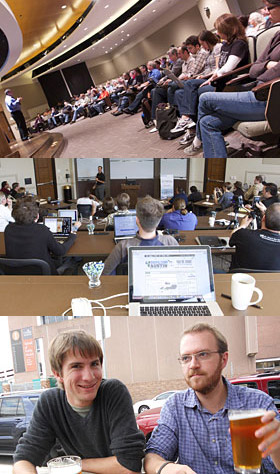
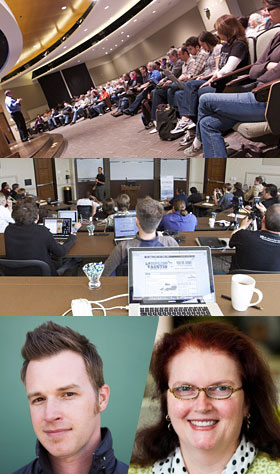
:blush: Oops, we'll need these changes to put the keynoters on the frontpage.

diff --git a/css/style.css b/css/style.css
@@ -475,7 +475,6 @@ table {
 h1, h2, h3, h4, h5, h6 {
   -webkit-transition: opacity 0.25s ease-in-out;
   -moz-transition: opacity 0.25s ease-in-out;
-  -ms-transition: opacity 0.25s ease-in-out;
   -o-transition: opacity 0.25s ease-in-out;
   transition: opacity 0.25s ease-in-out;
 }
@@ -623,7 +622,6 @@ a {
   text-decoration: none;
   -webkit-transition: color 0.06s linear;
   -moz-transition: color 0.06s linear;
-  -ms-transition: color 0.06s linear;
   -o-transition: color 0.06s linear;
   transition: color 0.06s linear;
 }
@@ -1110,7 +1108,7 @@ header .inner {
 #front .front-info.workshops h2:after {
   background-position: center -158px;
 }
-#front .front-info.parties h2:after {
+#front .front-info.keynotes h2:after {
   background-position: center -316px;
 }
 @media (min-width: 45em) {
@@ -1131,7 +1129,7 @@ header .inner {
     margin-left: 34.09091%;
     clear: right;
   }
-  #front .front-info.parties {
+  #front .front-info.keynotes {
     width: 31.81818%;
     float: right;
     margin-left: 0;
@@ -1181,7 +1179,6 @@ header .inner {
   margin-bottom: 1em;
   -webkit-transition: all 0.25s ease-in-out;
   -moz-transition: all 0.25s ease-in-out;
-  -ms-transition: all 0.25s ease-in-out;
   -o-transition: all 0.25s ease-in-out;
   transition: all 0.25s ease-in-out;
 }
@@ -1419,7 +1416,6 @@ footer .credits i {
 .submitted .session .desc {
   -webkit-transition: all 0.4s ease-in-out;
   -moz-transition: all 0.4s ease-in-out;
-  -ms-transition: all 0.4s ease-in-out;
   -o-transition: all 0.4s ease-in-out;
   transition: all 0.4s ease-in-out;
   overflow: hidden;
@@ -1439,11 +1435,9 @@ footer .credits i {
   background: -webkit-linear-gradient(top, rgba(10, 20, 27, 0), #0a141b);
   background: -moz-linear-gradient(top, rgba(10, 20, 27, 0), #0a141b);
   background: -o-linear-gradient(top, rgba(10, 20, 27, 0), #0a141b);
-  background: -ms-linear-gradient(top, rgba(10, 20, 27, 0), #0a141b);
   background: linear-gradient(top, rgba(10, 20, 27, 0), #0a141b);
   -webkit-transition: all 0.4s ease-in-out;
   -moz-transition: all 0.4s ease-in-out;
-  -ms-transition: all 0.4s ease-in-out;
   -o-transition: all 0.4s ease-in-out;
   transition: all 0.4s ease-in-out;
 }
@@ -1608,7 +1602,6 @@ article.session {
 article.session div {
   -webkit-transition: all 0.3s ease-in-out;
   -moz-transition: all 0.3s ease-in-out;
-  -ms-transition: all 0.3s ease-in-out;
   -o-transition: all 0.3s ease-in-out;
   transition: all 0.3s ease-in-out;
   -webkit-transform-origin: 50% 100% 50%;

diff --git a/index.html b/index.html
@@ -32,9 +32,10 @@ title: DrupalCamp Austin 2013 | June 21-23
     <a class="button" href="/workshops/">View workshops</a>
   </div>
 
-  <div class="front-info parties">
-    <h2>Parties</h2>
-    <p>The learning and socializing doesn't stop when the sessions end! This year we have both an official trivia night and after-party.</p>
+  <div class="front-info keynotes">
+    <h2>Keynotes</h2>
+    <p>We're thrilled about our two keynote speakers: Shawn O'Keefe and Danese Cooper.</p>
+    <a class="button" href="/news/meet-our-keynote-speakers/">Meet the keynoters</a>
   </div>
 
 </div>

diff --git a/sass/partials/design/_front.scss b/sass/partials/design/_front.scss
@@ -92,7 +92,7 @@
     &.workshops h2:after {
       background-position: center -158px;
     }
-    &.parties h2:after {
+    &.keynotes h2:after {
       background-position: center -316px;
     }
   }
@@ -108,7 +108,7 @@
       @include isolation-span(3, 4, 'right');
     }
 
-    .front-info.parties {
+    .front-info.keynotes {
       @include isolation-span(3, 7, 'right');
     }
   }
